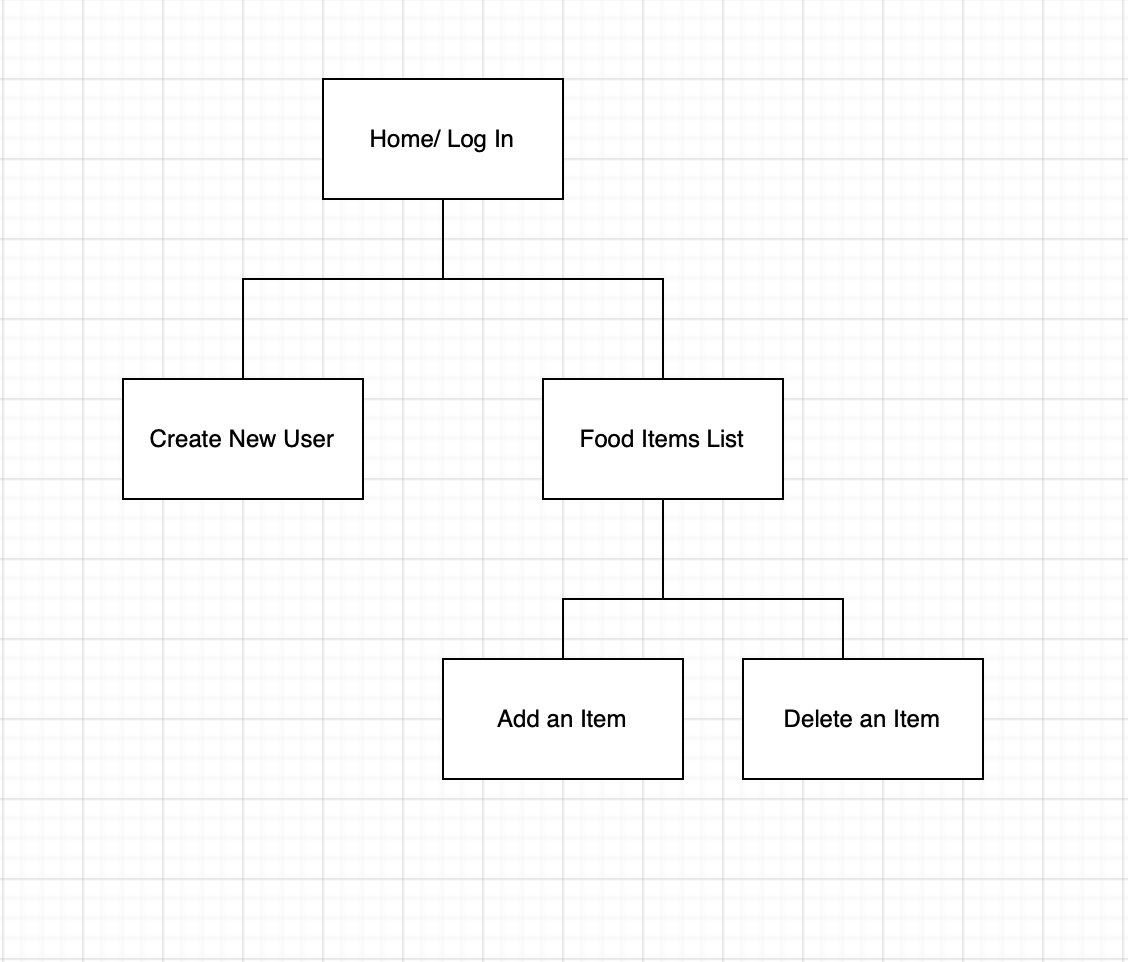
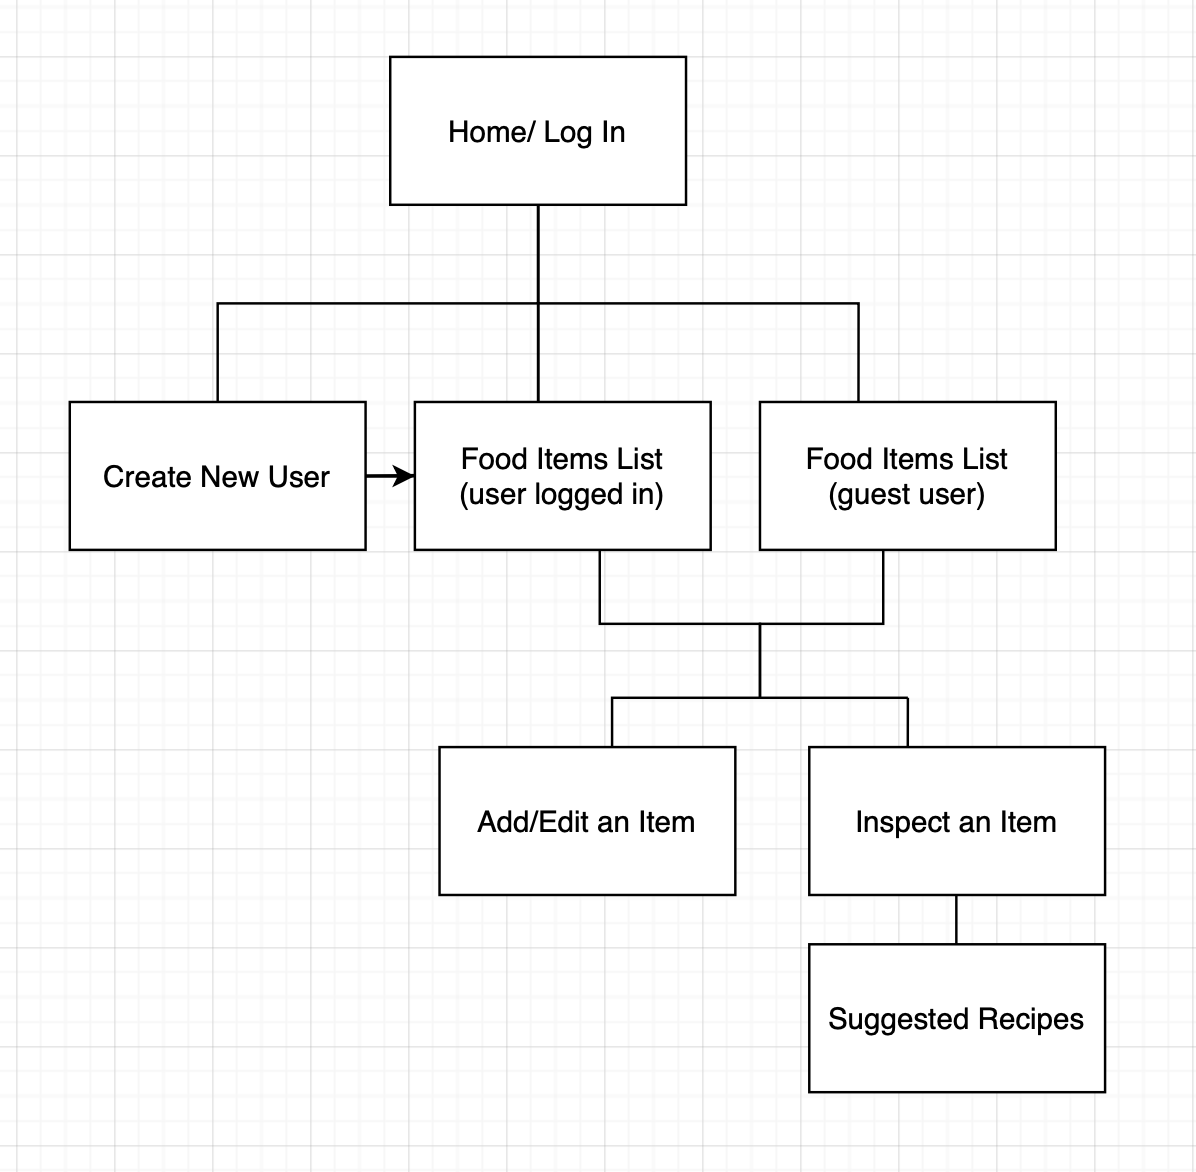
ux-design

diff --git a/UX-DESIGN.md b/UX-DESIGN.md
@@ -1,6 +1,6 @@
 # User Experience Design
 ## Prototype
-A link to the InVision  prototype can be found [here.](https://invis.io/H812F7L3KF5D)
+A link to the InVision  prototype can be found [here.](https://projects.invisionapp.com/share/3U12GBYPFYK8#/screens)
 ## Site Map
 <img src="ux-design/siteMap.png" alt="sitemap" width="500"/>
 
@@ -13,18 +13,37 @@ This is the initial page a user will see when accessing our app. It will prompt 
 <img src="ux-design/CreateAccount.png" alt="wireframe2" width="300"/>
 This page is used to create new accounts. After the user has submitted valid credentials, they will automatically be redirected to the main item page.
 
-### Wireframe 3: Main screen that displays all the items
-<img src="ux-design/ViewItems.png" alt="wireframe3" width="300"/>
+### Wireframe 3: User List for a logged-in user
+<p float= "left">
+<img src="ux-design/UserList.png" alt="wireframe3" width="300"/>
+<img src="ux-design/EmptyUserList.png" alt="wireframe3" width="300"/>
+</p>
 This is the main page that displays all the items the user currently has in his/her fridge. For each entry, the name and expiration date is shown. There are also options to edit, sort, or add new entries. 
 
-### Wireframe 4: Edit options for editing an entry
-<img src="ux-design/EditPage.png" alt="wireframe4" width="300"/>
-If the user wishes to edit an entry, this is the page they will see. They can either edit the name or the date of the product. 
+### Wireframe 4: User List for a guest user
+<p float= "left">
+<img src="ux-design/guestList.png" alt="wireframe4" width="300"/>
+<img src="ux-design/EmptyGuestList.png" alt="wireframe4" width="300"/>
+</p>
+This is the main page that displays all the items the guest currently has in his/her fridge. For each entry, the name and expiration date is shown. There are also options to edit, sort, or add new entries. 
 
-### Wireframe 5: Adding a new entry to the list
-<img src="ux-design/AddItem.png" alt="wireframe5" width="300"/>
-If the user wishes to add a new entry, this page will be shown. It will prompt the user for the name of the item, and its expected expiration date.
+### Wireframe 5: Add/Edit options for editing an entry
+<img src="ux-design/EditPage.png" alt="wireframe5" width="300"/>
+If the user wishes to add/edit an entry, this is the page they will see. They can either edit the name or the date of the product, or add a new product.
+
 
 ### Wireframe 6: A sort by function to sort the entries
 <img src="ux-design/SortBy.png" alt="wireframe6" width="300"/>
-Finally, the user has an option to sort all their items in their fridge. They can choose what they would like to filter by. 
+The user has an option to sort all their items in their fridge. They can choose what they would like to filter by. 
+
+### Wireframe 7: Inspect List Iten Page
+<img src="ux-design/InspectItem.png" alt="wireframe7" width="300"/>
+The user can select an item they have in their inventory to inspect it further. This shows the quantity they currently have, extra information, and provides the option for some suggested recipes.
+
+### Wireframe 8: Suggest Recipes Page
+<img src="ux-design/SuggestedRecipes.png" alt="wireframe8" width="300"/>
+Here, the user has the option to see suggested recipes for a specific ingredient they currently have in their fridge. 
+
+### Wireframe 9: User Profile/Preferences
+<img src="ux-design/Profile.png" alt="wireframe9" width="300"/>
+This page shows the user's profile and settings. Here, they can choose whether to adjust notifications, autocomplete expirations, or edit suggestions. 
